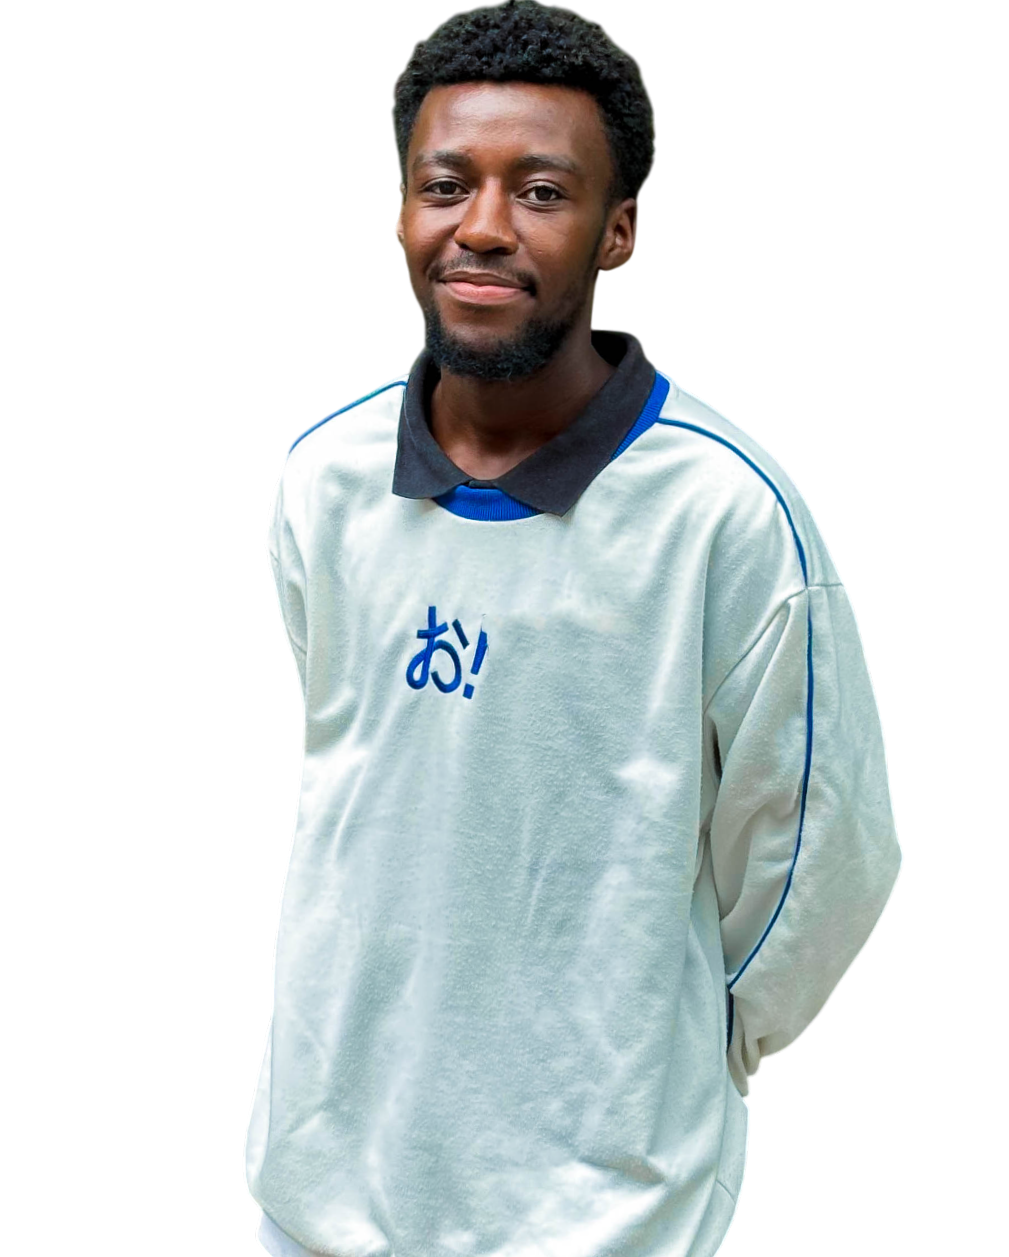
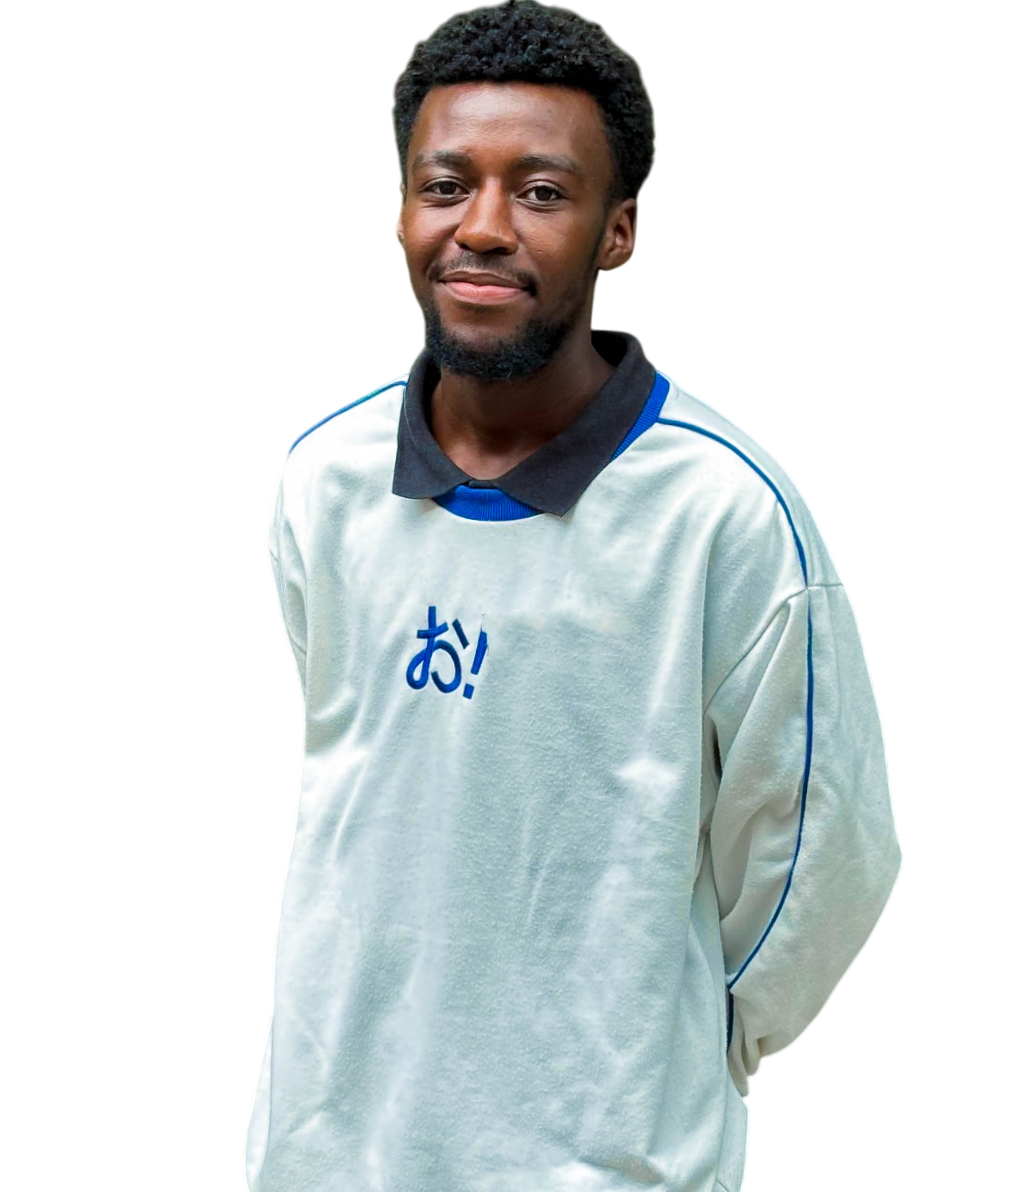
added images

Changed region(s): [[0.2458, 0.0, 0.891, 1.0], [0.2765, 0.776, 0.3072, 0.807]]

diff --git a/index.html b/index.html
@@ -650,7 +650,7 @@
           <div class="about__card-visual">
             <figure class="about__card-visual-image">
               <img
-                src="./Assets/about_visual_03.png"
+                src="./Assets/Munashe.png"
                 alt="Jerry-Kollie"
                 width="auto"
                 height="240"
